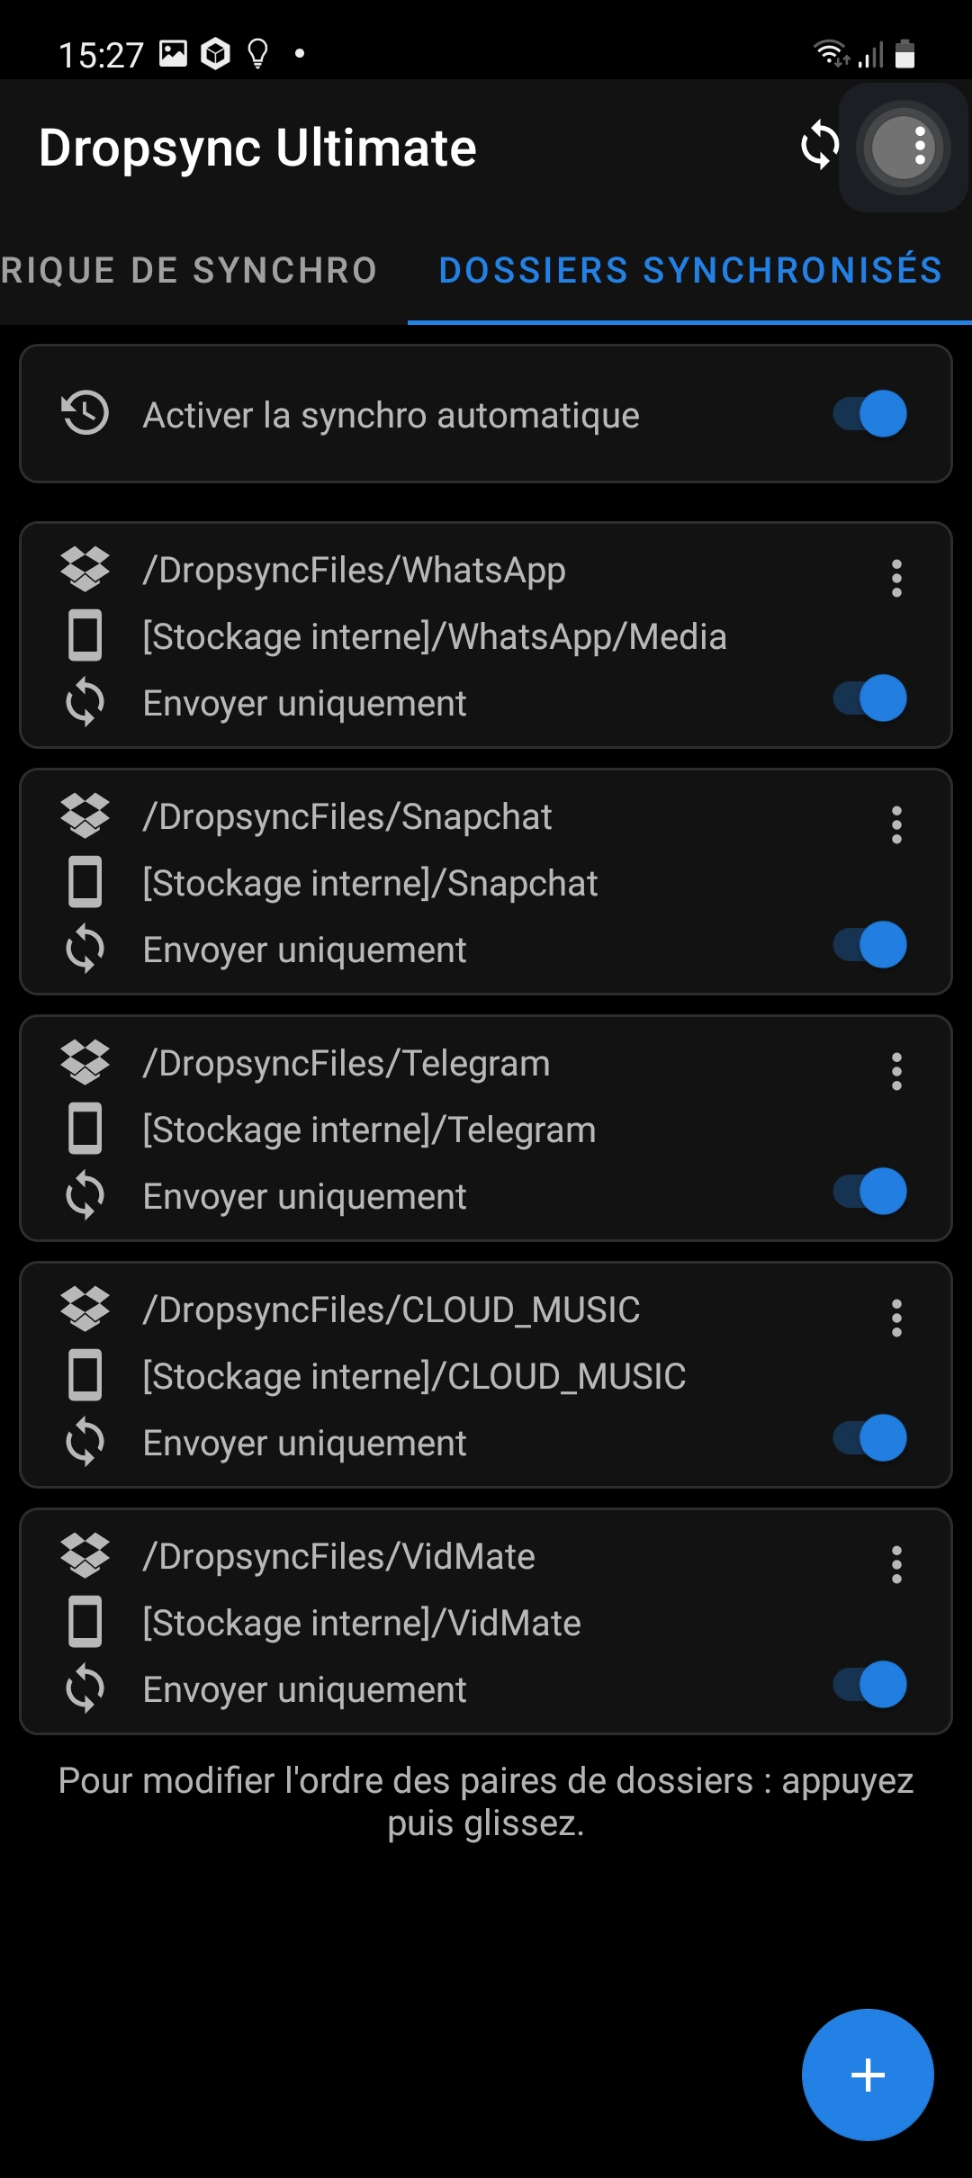
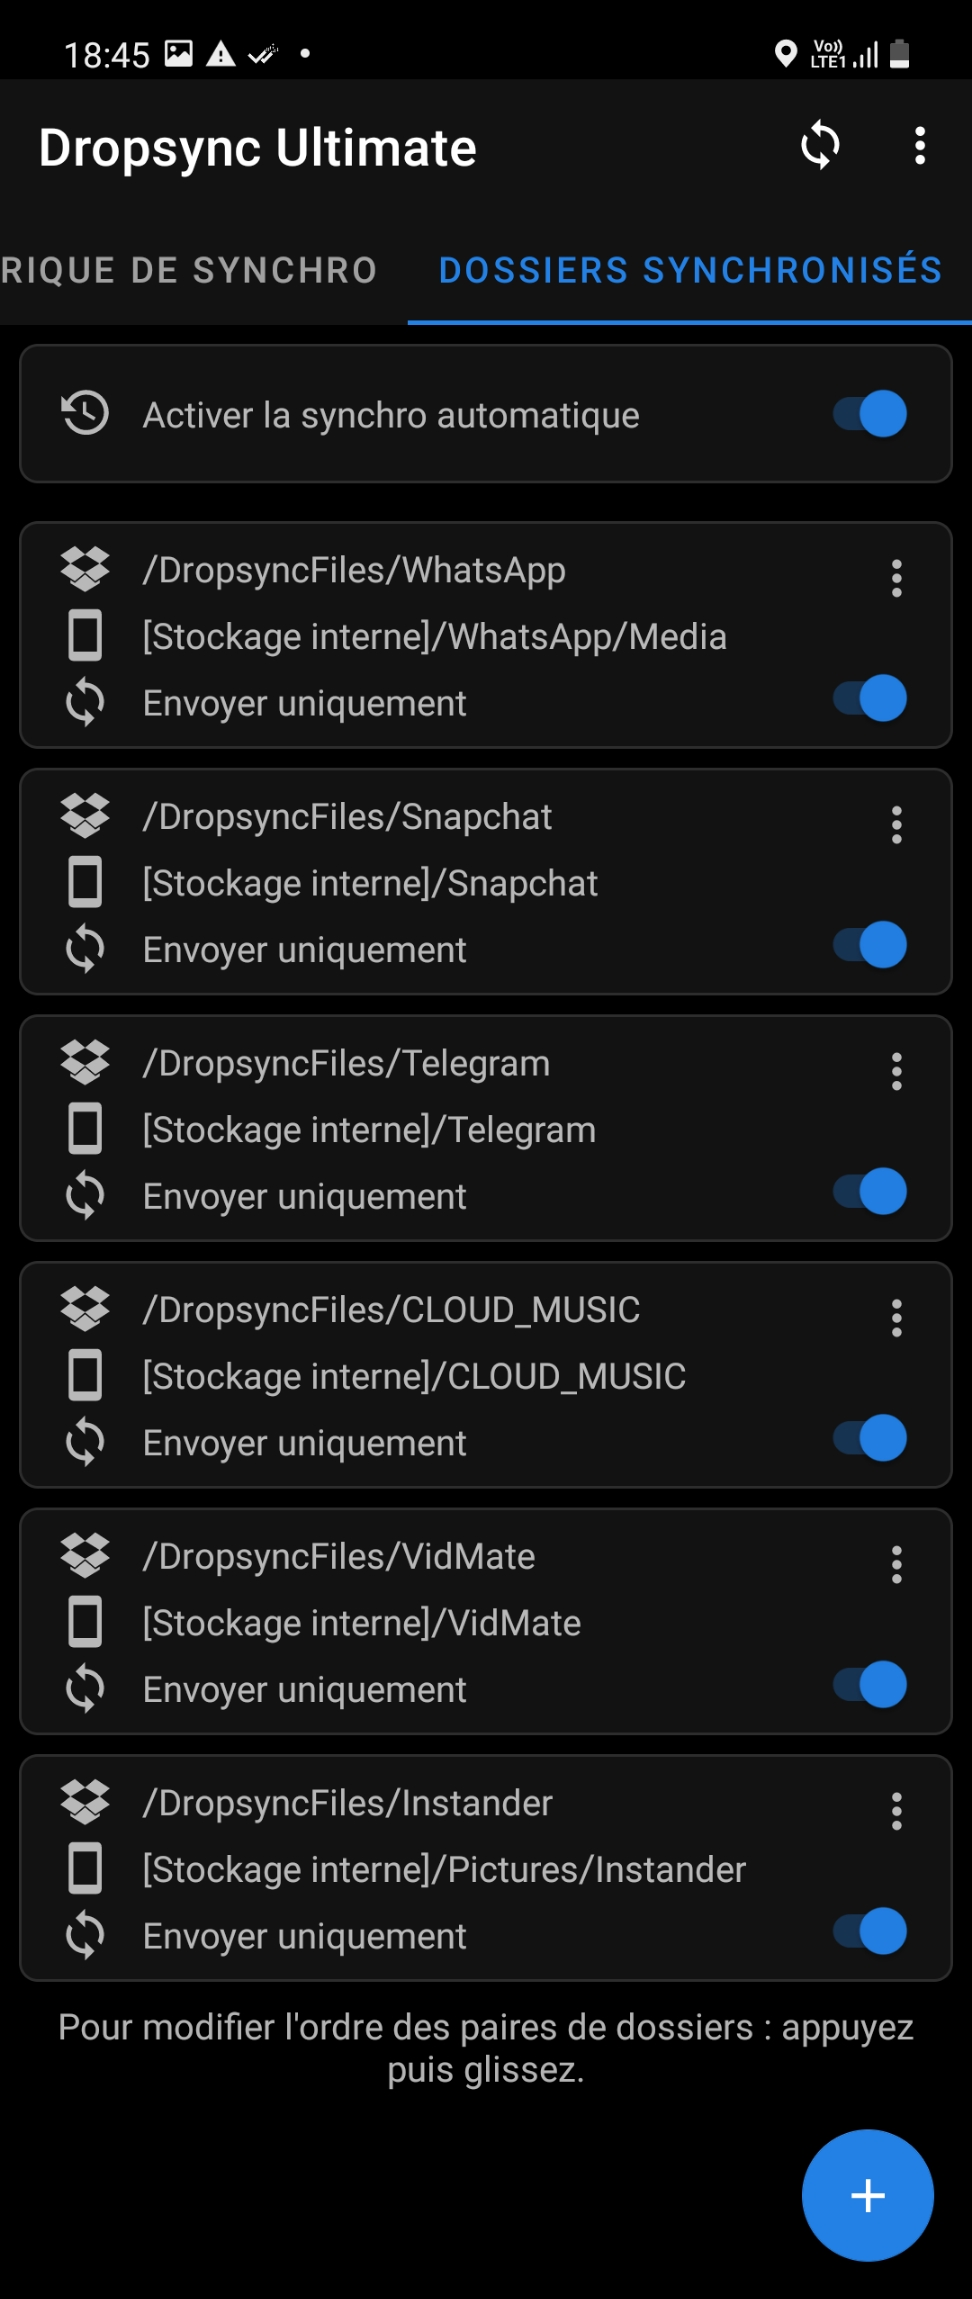
Add Instander integration.

Changed region(s): [[0.0, 0.0, 1.0, 0.9054], [0.8025, 0.7181, 0.9568, 0.9679], [0.0617, 0.0, 0.2778, 0.0312]]

diff --git a/src/dropsync_shift_rename.py b/src/dropsync_shift_rename.py
@@ -64,6 +64,7 @@ TELEGRAM_TYPE: str = 'Telegram'
 SNAPCHAT_TYPE: str = 'Snapchat'
 CLOUD_MUSIC_TYPE: str = 'CLOUD_MUSIC'
 VIDMATE_TYPE: str = 'VidMate'
+INSTANDER_TYPE: str = 'Instander'
 WHATSAPP_SHORT: str = 'WA'
 DROPSYNCFILES_DIRECTORY_PATH: str = '/Users/anthony/Dropbox/DropsyncFiles'
 CAMERA_UPLOADS_DIRECTORY_PATH: str = '/Users/anthony/Dropbox/Camera Uploads'
@@ -117,11 +118,17 @@ def move_files(files_path_list: list, dest_folder_path: str):
                                 have to be moved.
     """
 
+    translation_dict = {
+        ' ': '\ ',
+        '(': '\(',
+        ')': '\)'
+    }
+
     for file_path in files_path_list:
         src_path = file_path
-        command = 'mv ' + src_path.replace(' ', '\ ') + ' ' + dest_folder_path.replace(' ', '\ ')
+        command = 'mv ' + src_path.translate(str.maketrans(translation_dict)) + ' ' + dest_folder_path.translate(str.maketrans(translation_dict))
         returned_value = os.system(command)
-        print("  mv 'returned_value': ", returned_value)  # prints "0" (this means that the command run successfully)
+        print("\tmv 'returned_value': ", returned_value)  # prints "0" (this means that the command run successfully)
 
 
 def creation_date(file_path: str) -> float:
@@ -231,6 +238,17 @@ def rename_files(list_of_file_paths: list, type: str) -> list:
                 renamed_list_of_file_paths.append(file_path_new)
                 os.rename(file_path, file_path_new)
 
+        elif type==INSTANDER_TYPE:
+            for file_path in list_of_file_paths:
+                file_date_long = ms_to_date(file_path)
+                file_date = file_date_long.split('_')[0]
+                instagram_name = file_path.split('/')[-2]
+                file_name = file_path.split('/')[-1]
+                file_number_and_extension = file_name.split('-')[-1]
+                file_path_new = parent_folder_path + file_date + UNDERSCORE_SIGN + instagram_name + UNDERSCORE_SIGN + file_number_and_extension
+                renamed_list_of_file_paths.append(file_path_new)
+                os.rename(file_path, file_path_new)
+
     else:
         print(colored('⚠  Warning!\n', 'red'), '  The list of files to rename is empty!')
 
@@ -334,12 +352,12 @@ print('-----------')
 
 # Targeted folder paths
 if DEBUG_MODE_ON:
-    WHATSAPP_ANIMATED_GIFS_PATH: str = project_path + '/tests/WhatsApp/WhatsApp Animated Gifs/test_files/'
-    WHATSAPP_AUDIO_PATH: str = project_path + '/tests/WhatsApp/WhatsApp Audio/test_files/'
-    WHATSAPP_IMAGES_PATH: str = project_path + '/tests/WhatsApp/WhatsApp Images/test_files/'
-    WHATSAPP_STICKERS_PATH: str = project_path + '/tests/WhatsApp/WhatsApp Stickers/test_files/'
-    WHATSAPP_VIDEOS_PATH: str = project_path + '/tests/WhatsApp/WhatsApp Video/test_files/'
-    WHATSAPP_VOICE_NOTES_PATH: str = project_path + '/tests/WhatsApp/WhatsApp Voice Notes/test_files/'
+    WHATSAPP_ANIMATED_GIFS_PATH: str = project_path + '/tests/WhatsApp/WhatsApp Animated Gifs/'
+    WHATSAPP_AUDIO_PATH: str = project_path + '/tests/WhatsApp/WhatsApp Audio/'
+    WHATSAPP_IMAGES_PATH: str = project_path + '/tests/WhatsApp/WhatsApp Images/'
+    WHATSAPP_STICKERS_PATH: str = project_path + '/tests/WhatsApp/WhatsApp Stickers/'
+    WHATSAPP_VIDEOS_PATH: str = project_path + '/tests/WhatsApp/WhatsApp Video/'
+    WHATSAPP_VOICE_NOTES_PATH: str = project_path + '/tests/WhatsApp/WhatsApp Voice Notes/'
     CAMERA_UPLOADS_PATH: str = project_path + '/tests/Camera Uploads/'
 else:
     WHATSAPP_ANIMATED_GIFS_PATH: str = DROPSYNCFILES_DIRECTORY_PATH + '/WhatsApp/WhatsApp Animated Gifs/'
@@ -352,10 +370,10 @@ else:
 
 # Untargeted folder paths
 if DEBUG_MODE_ON:
-    WHATSAPP_MISC_PATH: str = project_path + '/tests/WhatsApp/MISC/test_files/'
-    WHATSAPP_WALLPAPER_PATH: str = project_path + '/tests/WhatsApp/WallPaper/test_files/'
-    WHATSAPP_DOCUMENTS_PATH: str = project_path + '/tests/WhatsApp/WhatsApp Documents/test_files/'
-    WHATSAPP_PROFILE_PHOTOS_PATH: str = project_path + '/tests/WhatsApp/WhatsApp Profile Photos/test_files/'
+    WHATSAPP_MISC_PATH: str = project_path + '/tests/WhatsApp/MISC/'
+    WHATSAPP_WALLPAPER_PATH: str = project_path + '/tests/WhatsApp/WallPaper/'
+    WHATSAPP_DOCUMENTS_PATH: str = project_path + '/tests/WhatsApp/WhatsApp Documents/'
+    WHATSAPP_PROFILE_PHOTOS_PATH: str = project_path + '/tests/WhatsApp/WhatsApp Profile Photos/'
 else:
     WHATSAPP_MISC_PATH: str = DROPSYNCFILES_DIRECTORY_PATH + '/WhatsApp/MISC/'
     WHATSAPP_WALLPAPER_PATH: str = DROPSYNCFILES_DIRECTORY_PATH + '/WhatsApp/WallPaper/'
@@ -446,9 +464,10 @@ else:
 print(' D) "WhatsApp Audio"')
 if os.path.isdir(WHATSAPP_AUDIO_PATH):
     # D.1) Shifting all files from the "Sent" directory in the "WhatsApp Audio" directory
-    print('  D.1) Shifting all files from the "Sent" directory in the "WhatsApp Audio" directory')
-    files_in_sent = [WHATSAPP_AUDIO_PATH+SENT_FOLDER+SLASH_SIGN+f for f in listdir(WHATSAPP_AUDIO_PATH+SENT_FOLDER+SLASH_SIGN) if isfile(join(WHATSAPP_AUDIO_PATH+SENT_FOLDER+SLASH_SIGN, f))]
-    move_files(files_in_sent, WHATSAPP_AUDIO_PATH)
+    if os.path.isdir(WHATSAPP_AUDIO_PATH+SENT_FOLDER+SLASH_SIGN):
+        print('  D.1) Shifting all files from the "Sent" directory in the "WhatsApp Audio" directory')
+        files_in_sent = [WHATSAPP_AUDIO_PATH+SENT_FOLDER+SLASH_SIGN+f for f in listdir(WHATSAPP_AUDIO_PATH+SENT_FOLDER+SLASH_SIGN) if isfile(join(WHATSAPP_AUDIO_PATH+SENT_FOLDER+SLASH_SIGN, f))]
+        move_files(files_in_sent, WHATSAPP_AUDIO_PATH)
     # D.2) Getting all files in "WhatsApp Audio" directory (".opus", ".mp3", ".m4a", etc.)
     print('  D.2) Getting all files in "WhatsApp Audio" directory (".opus", ".mp3", ".m4a", etc.)')
     files_in_whatsapp_audio = [f for f in listdir(WHATSAPP_AUDIO_PATH) if isfile(join(WHATSAPP_AUDIO_PATH, f))]
@@ -541,7 +560,7 @@ print('\n2) Telegram')
 print('-----------')
 
 if DEBUG_MODE_ON:
-    TELEGRAM_PATH: str = project_path + '/tests/Telegram/test_files/'
+    TELEGRAM_PATH: str = project_path + '/tests/Telegram/'
 else:
     TELEGRAM_PATH: str = DROPSYNCFILES_DIRECTORY_PATH + '/Telegram/'
 TELEGRAM_IMAGES_PATH: str = TELEGRAM_PATH + 'Telegram Images/'
@@ -582,7 +601,7 @@ print('\n3) Snapchat')
 print('-----------')
 
 if DEBUG_MODE_ON:
-    SNAPCHAT_PATH: str = project_path + '/tests/Snapchat/test_files/'
+    SNAPCHAT_PATH: str = project_path + '/tests/Snapchat/'
 else:
     SNAPCHAT_PATH: str = DROPSYNCFILES_DIRECTORY_PATH + '/Snapchat/'
 
@@ -616,7 +635,7 @@ print('\n4) CLOUD_MUSIC')
 print('--------------')
 
 if DEBUG_MODE_ON:
-    CLOUD_MUSIC_PATH: str = project_path + '/tests/CLOUD_MUSIC/test_files'
+    CLOUD_MUSIC_PATH: str = project_path + '/tests/CLOUD_MUSIC/'
 else:
     CLOUD_MUSIC_PATH: str = DROPSYNCFILES_DIRECTORY_PATH + '/CLOUD_MUSIC/'
 
@@ -651,7 +670,7 @@ print('\n5) VidMate')
 print('----------')
 
 if DEBUG_MODE_ON:
-    VIDMATE_PATH: str = project_path + '/tests/VidMate/test_files/'
+    VIDMATE_PATH: str = project_path + '/tests/VidMate/'
 else:
     VIDMATE_PATH: str = DROPSYNCFILES_DIRECTORY_PATH + '/VidMate/'
 VIDMATE_DOWNLOAD_PATH: str = VIDMATE_PATH + 'download/'
@@ -677,6 +696,61 @@ if len(renamed_list_of_vid_paths) == 0:
 # B.2) Moving the files to the "Camera Uploads" folder
 print('  B.2) Moving the files to the "Camera Uploads" folder')
 move_files(renamed_list_of_vid_paths, CAMERA_UPLOADS_PATH)
+
+
+
+
+# ██╗███╗░░██╗░██████╗████████╗░█████╗░███╗░░██╗██████╗░███████╗██████╗░
+# ██║████╗░██║██╔════╝╚══██╔══╝██╔══██╗████╗░██║██╔══██╗██╔════╝██╔══██╗
+# ██║██╔██╗██║╚█████╗░░░░██║░░░███████║██╔██╗██║██║░░██║█████╗░░██████╔╝
+# ██║██║╚████║░╚═══██╗░░░██║░░░██╔══██║██║╚████║██║░░██║██╔══╝░░██╔══██╗
+# ██║██║░╚███║██████╔╝░░░██║░░░██║░░██║██║░╚███║██████╔╝███████╗██║░░██║
+# ╚═╝╚═╝░░╚══╝╚═════╝░░░░╚═╝░░░╚═╝░░╚═╝╚═╝░░╚══╝╚═════╝░╚══════╝╚═╝░░╚═╝
+## 6) Instander
+# (Instagram clone and image/video downloader Android app)
+print('\n6) Instander')
+print('------------')
+
+if DEBUG_MODE_ON:
+    INSTANDER_PATH: str = project_path + '/tests/Instander/'
+else:
+    INSTANDER_PATH: str = DROPSYNCFILES_DIRECTORY_PATH + '/Instander/'
+
+## A) Visiting elements in "Instander" root folder
+print(' A) Visiting elements in "Instander" root folder')
+
+renamed_list_of_all_media_paths = []
+
+for file in os.listdir(INSTANDER_PATH):
+
+    elem_path = os.path.join(INSTANDER_PATH, file)
+
+    if os.path.isdir(elem_path):
+
+        # A.1) Navigating inside current subfolder
+        print('  A.1) Navigating inside current subfolder')
+        list_of_media_paths = [os.path.join(elem_path, media) for media in os.listdir(elem_path)]
+
+        # A.1.1) Renaming media file names (image and video)
+        print('   A.1.1) Renaming media file names (image and video)')
+        renamed_list_of_media_paths = rename_files(list_of_media_paths, INSTANDER_TYPE)
+        renamed_list_of_all_media_paths = renamed_list_of_all_media_paths + renamed_list_of_media_paths
+
+        # A.1.2) Moving the files to the "Camera Uploads" folder
+        print('   A.1.2) Moving the files to the "Camera Uploads" folder')
+        move_files(renamed_list_of_media_paths, CAMERA_UPLOADS_PATH)
+
+    else:
+        # A.2) Deleting image and video files at "Instander" folder root
+        # (Because those are the media I personally posted on Instagram)
+        # (Removing the file situated at "elem_path" since it is precisely a file
+        # (and hence NOT a subfolder))
+        print(' A.2) Deleting image and video files at "Instander" folder root')
+        os.remove(elem_path)
+
+if len(renamed_list_of_all_media_paths) == 0:
+    RETURNED_MESSAGE += '\n • Instander'
+    NB_EMPTY_FOLDERS += 1
 
 
 
